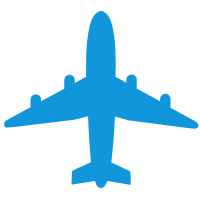
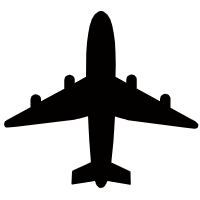
适配真机

Changed region(s): [[0.0, 0.03, 1.0, 0.96]]

diff --git a/src/pages/games/games.vue b/src/pages/games/games.vue
@@ -13,7 +13,7 @@ export default {
             windowWidth:0,
             windowHeight:0,
             range:"",
-            picPath:'https://6465-dev-iu973-1301970690.tcb.qcloud.la/%E9%A3%9E%E6%9C%BA.png',
+            picPath:'https://6465-dev-iu973-1301970690.tcb.qcloud.la/%E9%A3%9E%E6%9C%BA%20(2).png',
             imgX:50,
             imgY:120,
             image:null,
@@ -27,9 +27,13 @@ export default {
         drawRect(x, y,image) {
             const size = 10*this.qdpr;
             this.ctx.clearRect(0, 0, this.windowWidth, this.windowHeight);
-            this.ctx.fillRect(x, y, 20, 20);
+            this.ctx.rect(0, 0, this.windowWidth, this.windowHeight);
+            this.ctx.fillStyle ='#003399';
+            this.ctx.fill();
+            this.ctx.fillStyle ='#CC0033';
+            this.ctx.fillRect(x, y, 20, 20); 
             this.ctx.drawImage(image,this.imgX, this.imgY, size, size);
-            
+           
             // console.log(this.imgX+"/"+x+","+this.imgY+"/"+y);
             if ((this.imgX > x-size  && this.imgX < x + 20) && (this.imgY > y-size && this.imgY < y + 20)) { // 飞机与矩形发生碰撞
                 clearInterval(this.interval);
@@ -60,18 +64,21 @@ export default {
             {
                 this.imgX=0;
             }
-
-            this.imgY =e.y = (e.y)/this.qdpr-this.fix;
-            if(e.y>this.bottom)
+            console.log(e.y)
+            this.imgY =e.y = (e.y)*0.3-this.fix;
+            if(e.y>120)
             {
-                this.imgY=this.bottom;
+                this.imgY=120;
             }
             else if(e.y<0)
             {
                 this.imgY=0;
             }
+            console.log(this.imgY)
         },
         recoveryCanvas(){
+            this.windowWidth = wx.getSystemInfoSync().windowWidth;
+            this.windowHeight =wx.getSystemInfoSync().windowHeight;
             var that = this;
             const dpr = wx.getSystemInfoSync().pixelRatio;
             this.qdpr =dpr;
@@ -79,25 +86,23 @@ export default {
             this.range = "width:"+300*dpr+"px;height:"+150*dpr+"px;"
             if(dpr<3)
             {
-                // this.qdpr =dpr*2;
-                this.fix = 0;
-                this.range = "width:"+300*dpr+"px;height:"+150*this.qdpr+100+"px;"
+                // this.qdpr =3.5;
+                this.fix = 80;
+                this.range = "width:"+1000+"px;height:"+700+"px;";
             }
-            this.windowWidth = wx.getSystemInfoSync().windowWidth;
-            this.windowHeight =wx.getSystemInfoSync().windowHeight;
             
-			
             const query = wx.createSelectorQuery();
             query.select('#myCanvas')
             .fields({ node: true, size: true }) 
             .exec((res) => {
                 this.canvas = res[0].node;
-            
                 let seal = this.canvas.createImage();
+
                 console.log(dpr+"/"+this.canvas.width+"/"+this.canvas.height);
                 console.log(dpr+"/"+this.windowWidth+"/"+this.windowHeight);
+                console.log(this.range);
+
                 this.ctx = this.canvas.getContext('2d');
-                
                 this.imgX =50-(10*this.qdpr - 20)/2 ;
                 this.bottom = 140-10*this.qdpr;
                 this.imgY = this.bottom;
